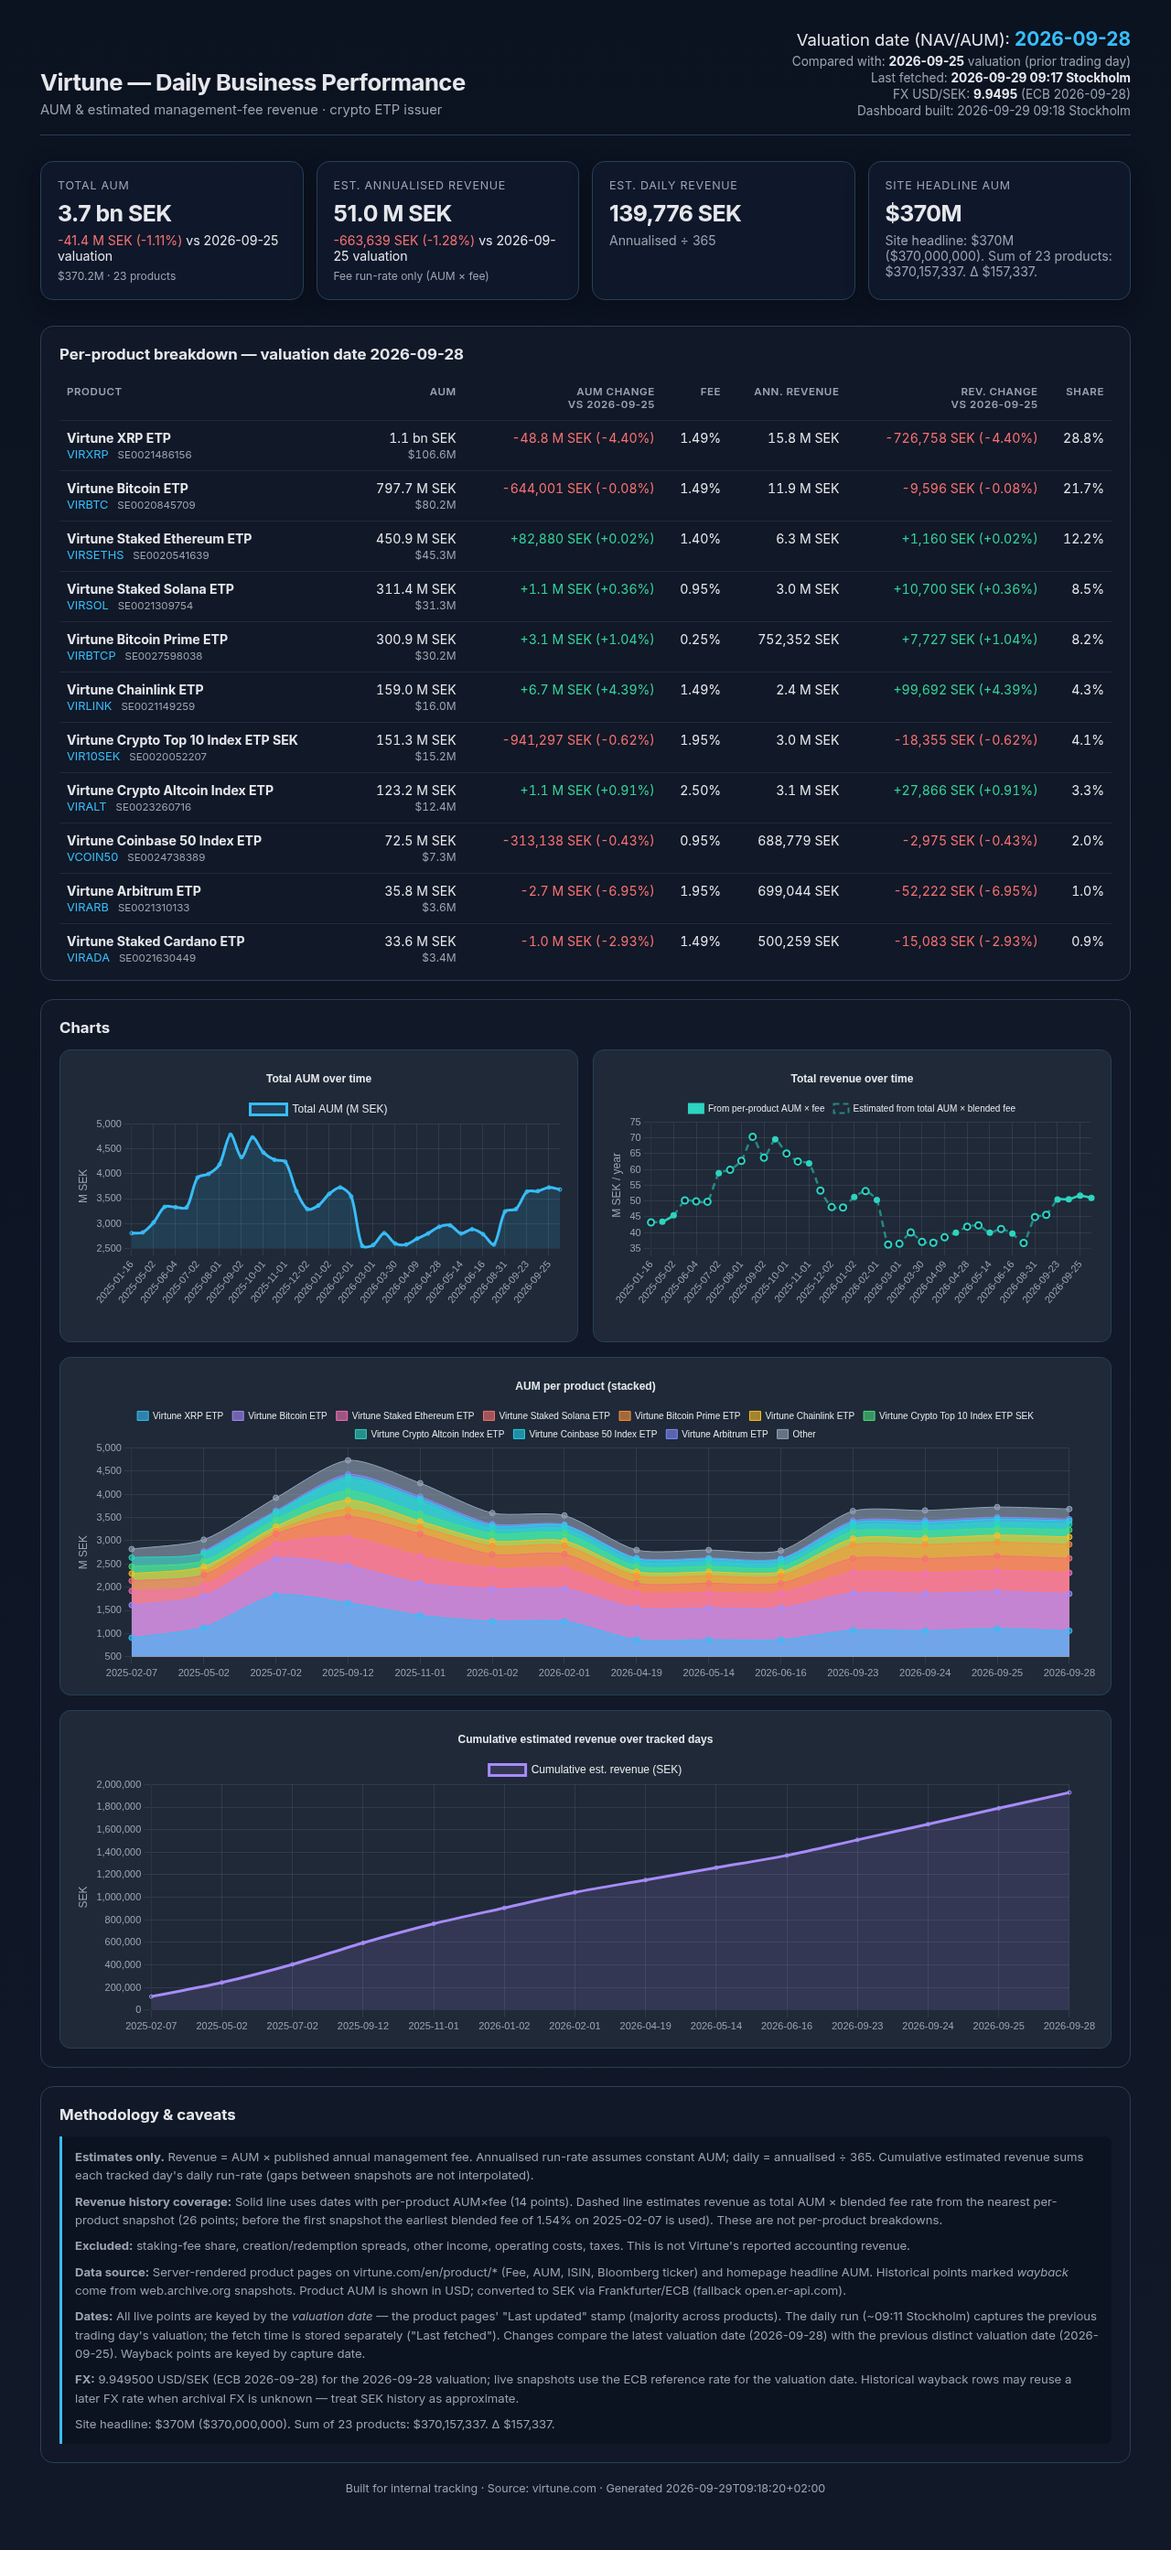
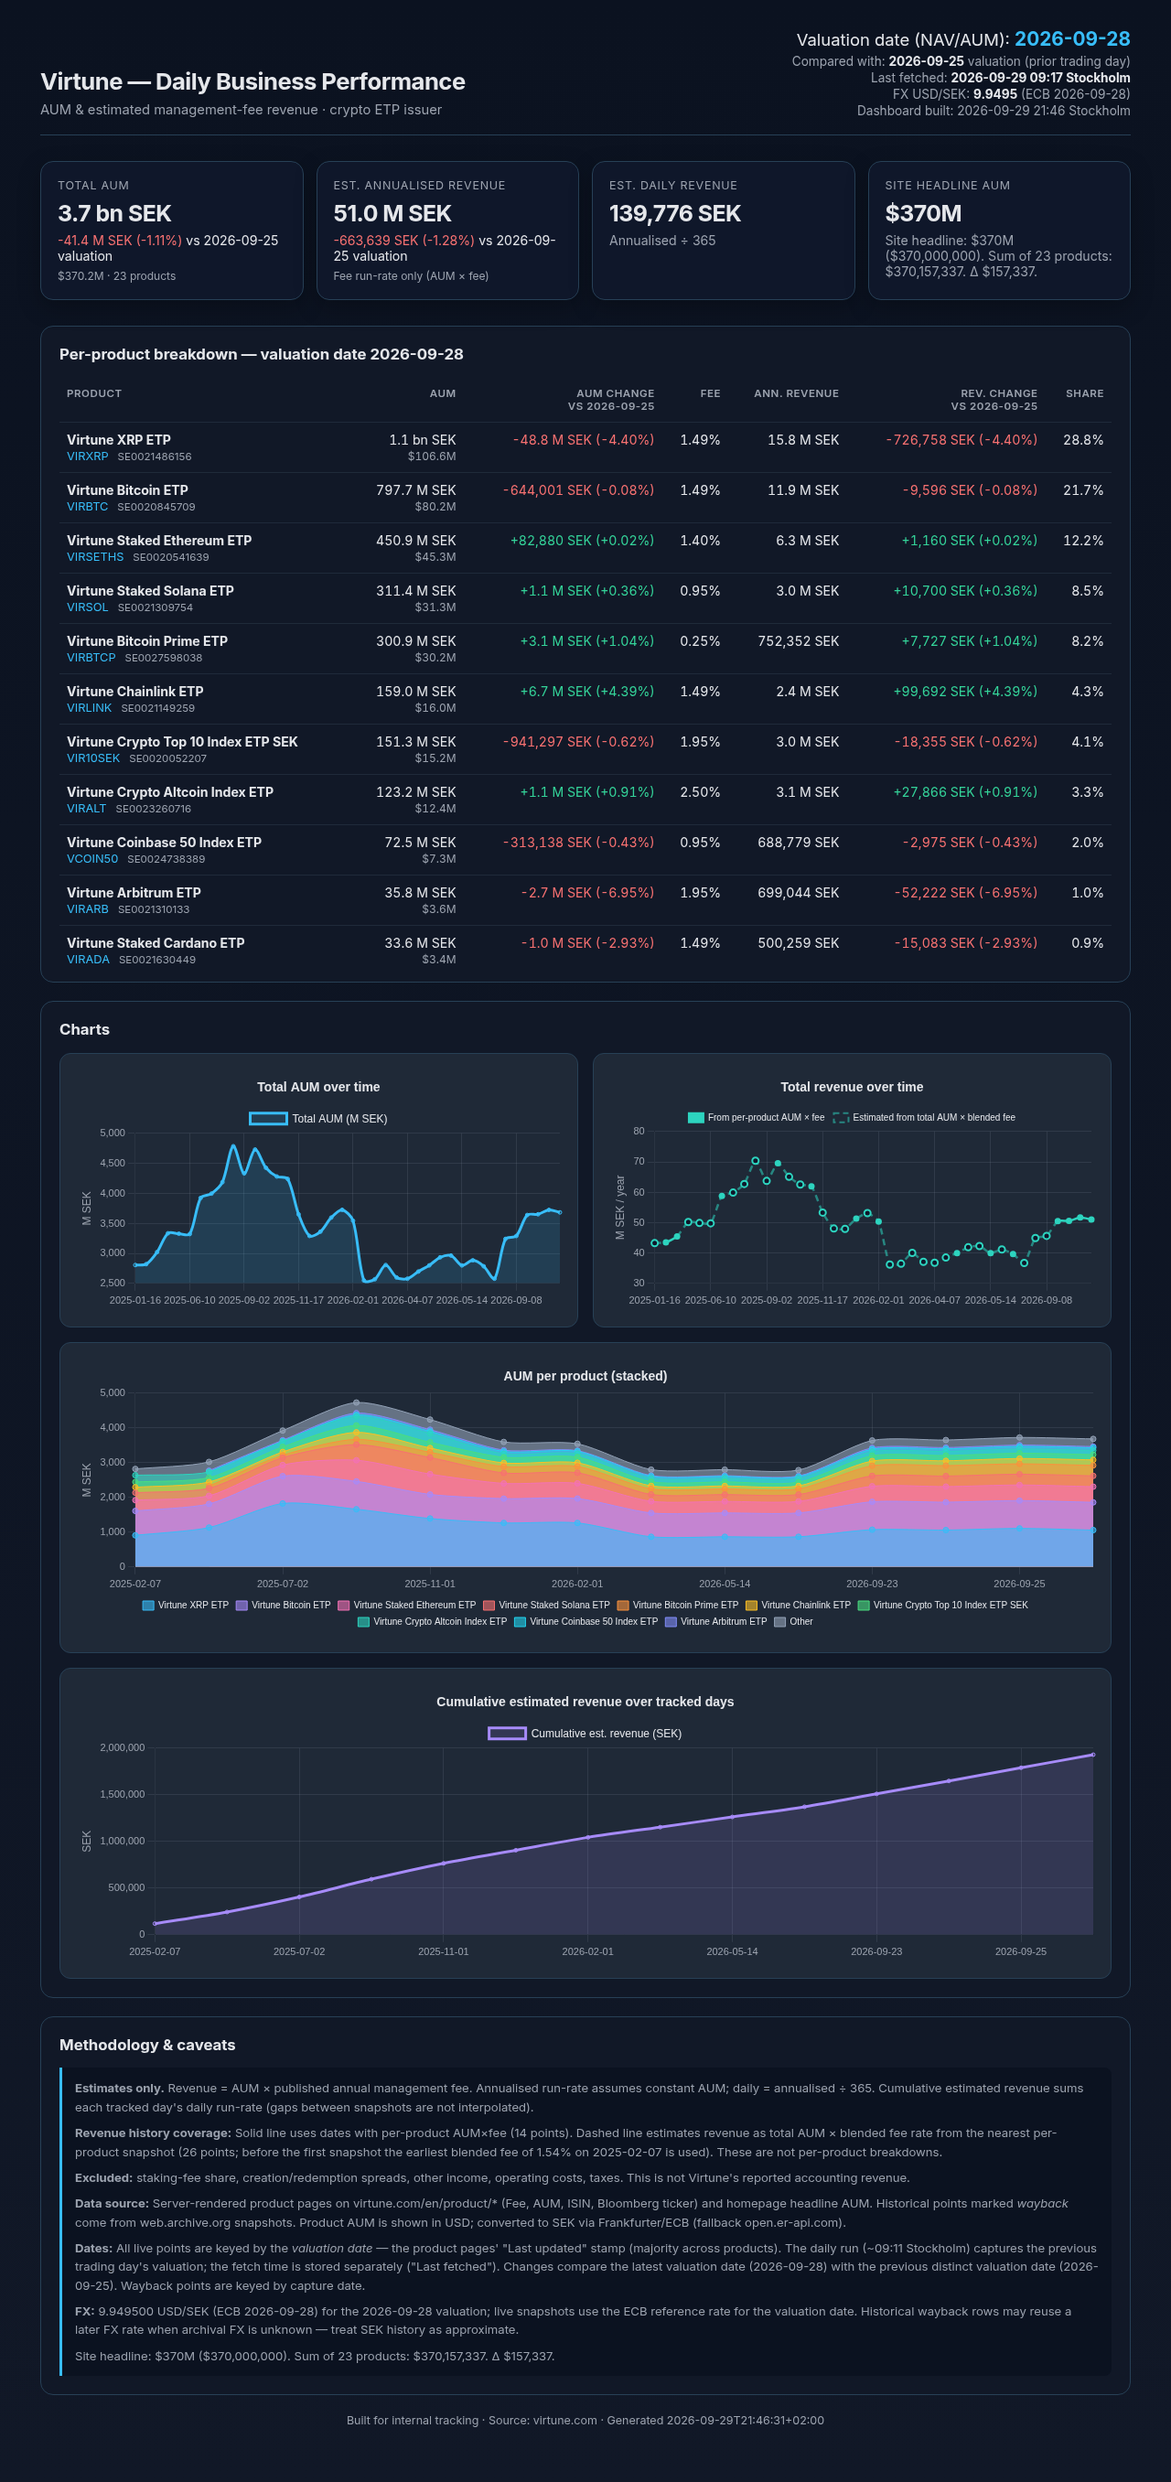
Update dashboard 2026-09-29 21:46 CEST

diff --git a/index.html b/index.html
@@ -32,16 +32,18 @@
     --up:#34d399; --down:#f87171; --border:#274056;
   }
   * { box-sizing:border-box; }
+  html { -webkit-text-size-adjust:100%; }
   body {
     margin:0; font-family:Inter,Segoe UI,system-ui,sans-serif;
     background:linear-gradient(180deg,#0b1220,#111827); color:var(--text); min-height:100vh;
+    overflow-x:hidden;
   }
-  .wrap { max-width:1240px; margin:0 auto; padding:28px 24px 60px; }
+  .wrap { max-width:1240px; margin:0 auto; padding:28px 24px 60px; width:100%; }
   header {
     display:flex; flex-wrap:wrap; justify-content:space-between; gap:16px;
     align-items:flex-end; margin-bottom:28px; border-bottom:1px solid var(--border); padding-bottom:18px;
   }
-  header h1 { margin:0; font-size:1.6rem; letter-spacing:-0.02em; }
+  header h1 { margin:0; font-size:1.6rem; letter-spacing:-0.02em; line-height:1.25; }
   header .sub { color:var(--muted); font-size:0.92rem; margin-top:6px; }
   header .meta { text-align:right; color:var(--muted); font-size:0.85rem; }
   header .meta strong { color:var(--text); }
@@ -49,13 +51,12 @@
   header .meta .valdate { font-size:1.15rem; color:var(--text); margin-bottom:4px; }
   header .meta .valdate strong { color:var(--accent); font-size:1.3rem; }
   .cards { display:grid; grid-template-columns:repeat(4,1fr); gap:14px; margin-bottom:28px; }
-  @media (max-width:960px) { .cards { grid-template-columns:repeat(2,1fr); } }
   .card {
     background:var(--card); border:1px solid var(--border); border-radius:14px;
     padding:18px; box-shadow:0 8px 24px rgba(0,0,0,.25);
   }
   .card .label { color:var(--muted); font-size:0.78rem; text-transform:uppercase; letter-spacing:.06em; }
-  .card .value { font-size:1.55rem; font-weight:700; margin:8px 0 6px; letter-spacing:-0.02em; }
+  .card .value { font-size:1.55rem; font-weight:700; margin:8px 0 6px; letter-spacing:-0.02em; word-break:break-word; }
   .card .delta { font-size:0.88rem; }
   .up { color:var(--up); } .down { color:var(--down); } .flat,.muted { color:var(--muted); }
   .missing { color:#fbbf24; font-style:italic; }
@@ -63,15 +64,14 @@
     background:var(--panel); border:1px solid var(--border); border-radius:14px;
     padding:20px; margin-bottom:20px;
   }
-  section h2 { margin:0 0 14px; font-size:1.05rem; }
+  section h2 { margin:0 0 14px; font-size:1.05rem; line-height:1.3; }
   .charts { display:grid; grid-template-columns:1fr 1fr; gap:16px; }
-  @media (max-width:960px) { .charts { grid-template-columns:1fr; } }
   .chart-box {
     background:var(--panel2); border-radius:12px; padding:14px;
-    border:1px solid var(--border); min-height:320px;
+    border:1px solid var(--border); height:300px; position:relative;
   }
-  .chart-box.wide { grid-column:1 / -1; }
-  canvas { width:100% !important; max-height:340px; }
+  .chart-box.wide { grid-column:1 / -1; height:340px; }
+  .chart-box canvas { width:100% !important; height:100% !important; }
   table { width:100%; border-collapse:collapse; font-size:0.88rem; }
   th, td { padding:10px 8px; border-bottom:1px solid #1f2a3a; vertical-align:top; }
   th {
@@ -85,10 +85,66 @@
   .note {
     color:var(--muted); font-size:0.82rem; line-height:1.55; background:#0b1220;
     border-left:3px solid var(--accent); padding:12px 14px; border-radius:0 8px 8px 0;
+    overflow-wrap:anywhere;
   }
   .note p { margin:0 0 8px; } .note p:last-child { margin:0; }
-  .table-wrap { overflow:auto; max-height:640px; }
-  footer { color:var(--muted); font-size:0.78rem; margin-top:8px; text-align:center; }
+  .table-wrap {
+    overflow-x:auto; overflow-y:auto; max-height:640px;
+    -webkit-overflow-scrolling:touch; overscroll-behavior-x:contain;
+  }
+  footer { color:var(--muted); font-size:0.78rem; margin-top:8px; text-align:center; padding:0 8px; }
+
+  /* Tablet */
+  @media (max-width:960px) {
+    .cards { grid-template-columns:repeat(2,1fr); }
+    .charts { grid-template-columns:1fr; }
+    .chart-box, .chart-box.wide { height:280px; }
+  }
+
+  /* Phone (~375–430px and up to 640) */
+  @media (max-width:640px) {
+    .wrap { padding:16px 12px 40px; }
+    header {
+      flex-direction:column; align-items:stretch; gap:12px;
+      margin-bottom:18px; padding-bottom:14px;
+    }
+    header h1 { font-size:1.25rem; }
+    header .sub { font-size:0.85rem; }
+    header .meta {
+      text-align:left; font-size:0.8rem;
+      background:var(--card); border:1px solid var(--border);
+      border-radius:12px; padding:12px 14px;
+    }
+    header .meta .valdate { font-size:1rem; }
+    header .meta .valdate strong { font-size:1.15rem; }
+    .cards {
+      grid-template-columns:1fr;
+      gap:10px; margin-bottom:18px;
+    }
+    .card { padding:14px 16px; border-radius:12px; }
+    .card .value { font-size:1.35rem; margin:6px 0 4px; }
+    .card .label { font-size:0.72rem; }
+    section { padding:14px; margin-bottom:14px; border-radius:12px; }
+    section h2 { font-size:0.95rem; margin-bottom:10px; }
+    .charts { gap:12px; }
+    .chart-box, .chart-box.wide { height:220px; padding:10px; }
+    .chart-box.wide { height:240px; }
+    /* Keep wide table scrollable inside the card, not the page */
+    .table-wrap {
+      margin:0 -4px; padding-bottom:4px;
+      max-height:min(70vh, 560px);
+    }
+    table { min-width:680px; font-size:0.82rem; }
+    th, td { padding:10px 10px; }
+    .note { font-size:0.78rem; padding:10px 12px; }
+  }
+
+  /* Narrow phones: 2x2 KPI grid still readable if preferred — keep single column above;
+     at 430+ allow optional 2-col via slightly wider breakpoint tweak */
+  @media (min-width:400px) and (max-width:640px) {
+    .cards { grid-template-columns:repeat(2,1fr); }
+    .card .value { font-size:1.2rem; }
+  }
 </style>
 </head>
 <body>
@@ -103,7 +159,7 @@
       <div>Compared with: <strong>2026-09-25</strong> valuation (prior trading day)</div>
       <div>Last fetched: <strong>2026-09-29 09:17 Stockholm</strong></div>
       <div>FX USD/SEK: <strong>9.9495</strong> (ECB 2026-09-28)</div>
-      <div>Dashboard built: 2026-09-29 09:18 Stockholm</div>
+      <div>Dashboard built: 2026-09-29 21:46 Stockholm</div>
     </div>
   </header>
 
@@ -441,29 +497,54 @@
   </section>
 
   <footer>
-    Built for internal tracking · Source: virtune.com · Generated 2026-09-29T09:18:20+02:00
+    Built for internal tracking · Source: virtune.com · Generated 2026-09-29T21:46:31+02:00
   </footer>
 </div>
 <script>
 const DATA = {"totalDates": ["2025-01-16", "2025-02-07", "2025-05-02", "2025-05-16", "2025-06-04", "2025-06-10", "2025-07-02", "2025-07-16", "2025-08-01", "2025-08-14", "2025-09-02", "2025-09-12", "2025-10-01", "2025-10-16", "2025-11-01", "2025-11-17", "2025-12-02", "2025-12-17", "2026-01-02", "2026-01-15", "2026-02-01", "2026-02-12", "2026-03-01", "2026-03-18", "2026-03-30", "2026-04-07", "2026-04-09", "2026-04-19", "2026-04-28", "2026-05-05", "2026-05-14", "2026-05-21", "2026-06-16", "2026-07-23", "2026-08-31", "2026-09-08", "2026-09-23", "2026-09-24", "2026-09-25", "2026-09-28"], "totalAumMSek": [2805.41, 2820.2, 3022.1, 3334.47, 3327.67, 3321.68, 3922.76, 3995.7, 4185.61, 4784.86, 4332.45, 4730.21, 4425.13, 4280.66, 4240.11, 3649.65, 3290.0, 3360.89, 3596.35, 3725.31, 3542.85, 2548.58, 2568.33, 2805.41, 2597.97, 2578.21, 2696.75, 2799.73, 2933.83, 2963.46, 2799.12, 2884.43, 2785.26, 2578.21, 3240.05, 3289.44, 3638.87, 3651.39, 3724.32, 3682.88], "productDates": ["2025-02-07", "2025-05-02", "2025-07-02", "2025-09-12", "2025-11-01", "2026-01-02", "2026-02-01", "2026-04-19", "2026-05-14", "2026-06-16", "2026-09-23", "2026-09-24", "2026-09-25", "2026-09-28"], "stacked": [{"label": "Virtune XRP ETP", "data": [909.656, 1133.965, 1826.524, 1660.579, 1393.652, 1266.491, 1266.491, 867.761, 867.761, 867.761, 1072.828, 1061.136, 1109.059, 1060.283], "backgroundColor": "#38bdf899", "borderColor": "#38bdf8", "borderWidth": 1, "fill": true, "tension": 0.25}, {"label": "Virtune Bitcoin ETP", "data": [702.118, 679.159, 786.571, 799.962, 692.718, 698.896, 701.267, 684.656, 685.315, 685.315, 802.417, 801.782, 798.296, 797.652], "backgroundColor": "#a78bfa99", "borderColor": "#a78bfa", "borderWidth": 1, "fill": true, "tension": 0.25}, {"label": "Virtune Staked Ethereum ETP", "data": [308.972, 233.221, 319.597, 609.197, 584.033, 437.269, 437.269, 334.734, 332.081, 332.081, 447.273, 448.95, 450.825, 450.908], "backgroundColor": "#f472b699", "borderColor": "#f472b6", "borderWidth": 1, "fill": true, "tension": 0.25}, {"label": "Virtune Staked Solana ETP", "data": [214.955, 217.293, 213.472, 450.613, 477.713, 301.537, 305.117, 197.75, 197.75, 197.75, 297.491, 302.742, 310.261, 311.388], "backgroundColor": "#f8717199", "borderColor": "#f87171", "borderWidth": 1, "fill": true, "tension": 0.25}, {"label": "Virtune Bitcoin Prime ETP", "data": [null, 64.675, 64.675, 151.192, 151.192, 182.263, 182.263, 160.355, 160.355, 160.355, 291.653, 300.171, 297.85, 300.941], "backgroundColor": "#fb923c99", "borderColor": "#fb923c", "borderWidth": 1, "fill": true, "tension": 0.25}, {"label": "Virtune Chainlink ETP", "data": [157.262, 114.519, 97.691, 202.333, 121.15, 105.537, 105.537, 86.994, 86.994, 86.994, 135.903, 138.467, 152.338, 159.029], "backgroundColor": "#fbbf2499", "borderColor": "#fbbf24", "borderWidth": 1, "fill": true, "tension": 0.25}, {"label": "Virtune Crypto Top 10 Index ETP SEK", "data": [150.658, 125.223, 146.879, 197.399, 165.198, 161.956, 161.956, 116.449, 116.449, 106.154, 151.274, 151.527, 152.236, 151.295], "backgroundColor": "#4ade8099", "borderColor": "#4ade80", "borderWidth": 1, "fill": true, "tension": 0.25}, {"label": "Virtune Crypto Altcoin Index ETP", "data": [193.932, 162.793, 146.539, 253.569, 253.569, 99.243, 99.243, 99.063, 99.063, 99.063, 115.741, 118.545, 122.126, 123.241], "backgroundColor": "#2dd4bf99", "borderColor": "#2dd4bf", "borderWidth": 1, "fill": true, "tension": 0.25}, {"label": "Virtune Coinbase 50 Index ETP", "data": [null, 5.016, 13.544, 49.493, 60.95, 67.701, 67.701, 60.398, 60.398, 60.398, 72.31, 72.402, 72.816, 72.503], "backgroundColor": "#22d3ee99", "borderColor": "#22d3ee", "borderWidth": 1, "fill": true, "tension": 0.25}, {"label": "Virtune Arbitrum ETP", "data": [null, 34.393, 30.629, 51.919, 49.189, 38.116, 19.507, 19.791, 19.791, 19.791, 39.317, 38.154, 38.526, 35.848], "backgroundColor": "#818cf899", "borderColor": "#818cf8", "borderWidth": 1, "fill": true, "tension": 0.25}, {"label": "Other", "data": [182.648, 251.84, 276.644, 303.949, 290.746, 237.34, 196.499, 171.774, 173.164, 169.597, 212.659, 217.512, 219.984, 219.794], "backgroundColor": "#94a3b899", "borderColor": "#94a3b8", "borderWidth": 1, "fill": true, "tension": 0.25}], "totalRevMSek": [43.2479, 43.4759, 45.4824, 50.1836, 49.868, 49.7782, 58.786, 59.879, 62.7249, 70.3692, 63.7157, 69.5654, 65.0787, 62.5371, 61.9448, 53.3186, 48.0643, 47.9425, 51.3012, 53.1408, 50.3128, 36.1929, 36.4734, 40.0446, 37.0836, 36.8016, 38.4936, 39.9635, 41.8776, 42.2948, 39.9494, 41.167, 39.6744, 36.7251, 44.9367, 45.6218, 50.468, 50.5555, 51.682, 51.0183], "revIsEstimated": [true, false, false, true, true, true, false, true, true, true, true, false, true, true, false, true, true, true, false, true, false, true, true, true, true, true, true, false, true, true, false, true, false, true, true, true, false, false, false, false], "cumulative": [119112.0, 243722.0, 404779.0, 595369.0, 765081.0, 905632.0, 1043475.0, 1152964.0, 1262415.0, 1371111.0, 1509380.0, 1647888.0, 1789483.0, 1929259.0]};
+const isMobile = window.matchMedia('(max-width: 640px)').matches;
 const grid = { color: 'rgba(148,163,184,0.15)' };
-const tick = { color: '#9ca3af', font: { size: 11 } };
+const tick = {
+  color: '#9ca3af',
+  font: { size: isMobile ? 9 : 11 },
+  maxRotation: isMobile ? 50 : 0,
+  minRotation: isMobile ? 40 : 0,
+  autoSkip: true,
+  maxTicksLimit: isMobile ? 5 : 12,
+  padding: isMobile ? 2 : 4,
+};
+const yTick = {
+  color: '#9ca3af',
+  font: { size: isMobile ? 9 : 11 },
+  maxTicksLimit: isMobile ? 5 : 8,
+};
+const commonOpts = {
+  responsive: true,
+  maintainAspectRatio: false,
+  layout: { padding: isMobile ? { top: 2, right: 4, bottom: 0, left: 0 } : 4 },
+};
+const legendLabels = {
+  color: '#e5e7eb',
+  boxWidth: isMobile ? 10 : 12,
+  font: { size: isMobile ? 9 : 10 },
+  padding: isMobile ? 6 : 10,
+};
 new Chart(document.getElementById('chartTotal'), {
   type: 'line',
   data: { labels: DATA.totalDates, datasets: [{
     label: 'Total AUM (M SEK)', data: DATA.totalAumMSek,
     borderColor: '#38bdf8', backgroundColor: 'rgba(56,189,248,0.15)',
-    fill: true, tension: 0.3, pointRadius: 2,
+    fill: true, tension: 0.3, pointRadius: isMobile ? 1 : 2,
   }]},
   options: {
-    responsive: true,
+    ...commonOpts,
     plugins: {
-      title: { display: true, text: 'Total AUM over time', color: '#e5e7eb' },
-      legend: { labels: { color: '#e5e7eb' } }
+      title: { display: true, text: 'Total AUM over time', color: '#e5e7eb', font: { size: isMobile ? 12 : 14 } },
+      legend: { display: !isMobile, labels: { color: '#e5e7eb' } }
     },
     scales: {
       x: { ticks: tick, grid },
-      y: { ticks: tick, grid, title: { display: true, text: 'M SEK', color: '#9ca3af' } }
+      y: { ticks: yTick, grid, title: { display: !isMobile, text: 'M SEK', color: '#9ca3af' } }
     }
   }
 });
@@ -478,7 +559,7 @@ new Chart(document.getElementById('chartRev'), {
     tension: 0.2,
     borderWidth: 2.5,
     spanGaps: false,
-    pointRadius: 3.5,
+    pointRadius: isMobile ? 2 : 3.5,
     pointHoverRadius: 5,
     pointBackgroundColor: DATA.revIsEstimated.map(e => e ? '#0f172a' : '#2dd4bf'),
     pointBorderColor: '#2dd4bf',
@@ -511,19 +592,21 @@ new Chart(document.getElementById('chartRev'), {
     borderWidth: 2,
   }]},
   options: {
-    responsive: true,
+    ...commonOpts,
     plugins: {
-      title: { display: true, text: 'Total revenue over time', color: '#e5e7eb' },
+      title: { display: true, text: 'Total revenue over time', color: '#e5e7eb', font: { size: isMobile ? 12 : 14 } },
       legend: {
+        position: isMobile ? 'bottom' : 'top',
         labels: {
-          color: '#e5e7eb', boxWidth: 16, font: { size: 10 },
+          ...legendLabels,
+          boxWidth: isMobile ? 12 : 16,
           filter: (item) => item.text !== '_rev_main',
         }
       }
     },
     scales: {
       x: { ticks: tick, grid },
-      y: { ticks: tick, grid, title: { display: true, text: 'M SEK / year', color: '#9ca3af' } }
+      y: { ticks: yTick, grid, title: { display: !isMobile, text: 'M SEK / year', color: '#9ca3af' } }
     }
   }
 });
@@ -532,14 +615,23 @@ new Chart(document.getElementById('chartStacked'), {
   type: 'line',
   data: { labels: DATA.productDates, datasets: DATA.stacked },
   options: {
-    responsive: true,
+    ...commonOpts,
     plugins: {
-      title: { display: true, text: 'AUM per product (stacked)', color: '#e5e7eb' },
-      legend: { labels: { color: '#e5e7eb', boxWidth: 12, font: { size: 10 } } }
+      title: { display: true, text: 'AUM per product (stacked)', color: '#e5e7eb', font: { size: isMobile ? 12 : 14 } },
+      legend: {
+        position: 'bottom',
+        labels: {
+          ...legendLabels,
+          // On mobile keep legend usable but less crowded
+          font: { size: isMobile ? 8 : 10 },
+          boxWidth: isMobile ? 8 : 12,
+          padding: isMobile ? 4 : 8,
+        }
+      }
     },
     scales: {
       x: { ticks: tick, grid },
-      y: { stacked: true, ticks: tick, grid, title: { display: true, text: 'M SEK', color: '#9ca3af' } }
+      y: { stacked: true, ticks: yTick, grid, title: { display: !isMobile, text: 'M SEK', color: '#9ca3af' } }
     }
   }
 });
@@ -548,17 +640,22 @@ new Chart(document.getElementById('chartCumul'), {
   data: { labels: DATA.productDates, datasets: [{
     label: 'Cumulative est. revenue (SEK)', data: DATA.cumulative,
     borderColor: '#a78bfa', backgroundColor: 'rgba(167,139,250,0.15)',
-    fill: true, tension: 0.3, pointRadius: 2,
+    fill: true, tension: 0.3, pointRadius: isMobile ? 1 : 2,
   }]},
   options: {
-    responsive: true,
+    ...commonOpts,
     plugins: {
-      title: { display: true, text: 'Cumulative estimated revenue over tracked days', color: '#e5e7eb' },
-      legend: { labels: { color: '#e5e7eb' } }
+      title: {
+        display: true,
+        text: isMobile ? 'Cumulative est. revenue' : 'Cumulative estimated revenue over tracked days',
+        color: '#e5e7eb',
+        font: { size: isMobile ? 12 : 14 },
+      },
+      legend: { display: !isMobile, labels: { color: '#e5e7eb' } }
     },
     scales: {
       x: { ticks: tick, grid },
-      y: { ticks: tick, grid, title: { display: true, text: 'SEK', color: '#9ca3af' } }
+      y: { ticks: yTick, grid, title: { display: !isMobile, text: 'SEK', color: '#9ca3af' } }
     }
   }
 });
